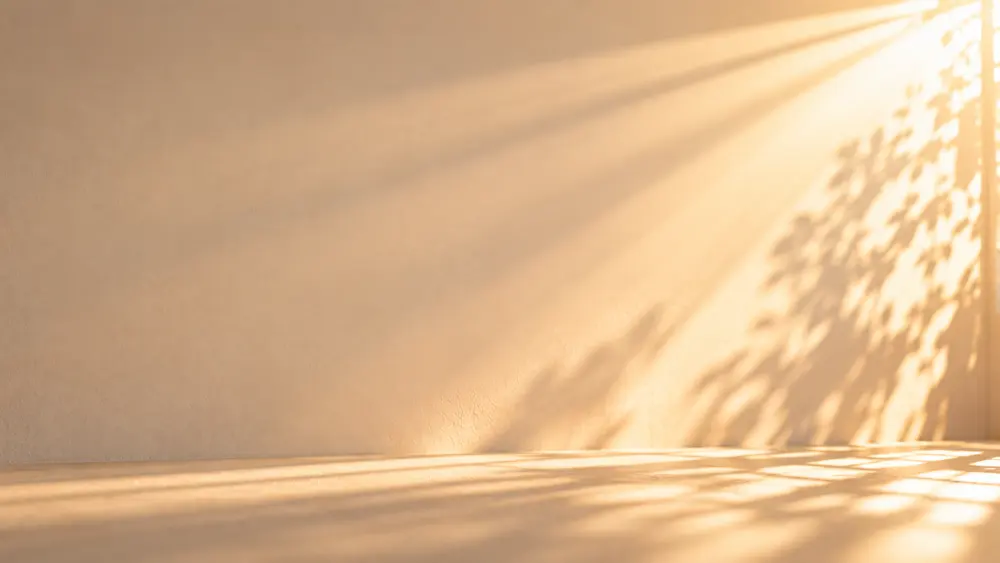
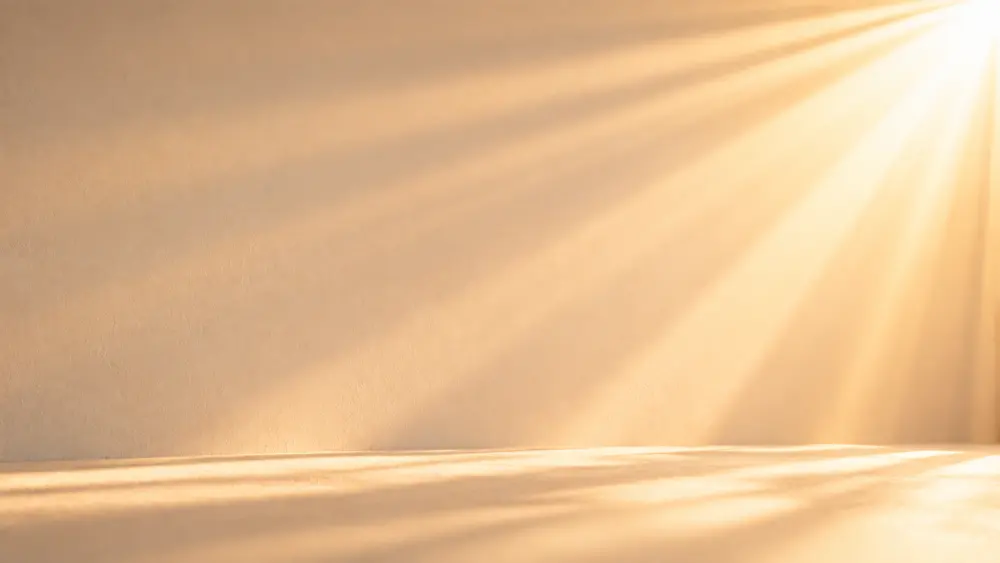
Aufmacher: exakt Fenster minus Kopfzeile, Ueberschrift in zwei Zeilen, finales Bild (KEV-29)
- Hoehe: Auf dem Desktop fuellt der Aufmacher genau das Fenster abzueglich
  Kopfzeile. Die Kopfzeile ist 82,5 px hoch, nicht 80, und waechst mit der
  Schriftvergroesserung der Darstellungs-Toolbar; kopfhoehe.js misst sie
  per ResizeObserver und legt sie in --kopfhoehe ab (ohne JS 4/5 rem).
  Gemessen bei 1280, 1366, 1440 und 1920 px: Kopf + Aufmacher = Fenster.
  Unter "xl" zusaetzlich abzueglich der Leiste unten.
- Ueberschrift: ab "lg" "Keiner soll mehr sagen muessen:" und das Zitat je
  in einer Zeile. Textspalte breiter (1.4fr/0.6fr), kein Umbruch, Schrift
  waechst zwischen 1024 und 1440 px mit der Breite bis 2,75 rem. Das Logo
  ist bei "lg" etwas kleiner, damit es in die schmalere Spalte passt.
- Bild: das vom Verein endgueltig gewaehlte (Lichtstrahlen von oben
  rechts), gleicher Dateiname startseite.webp.

diff --git a/resources/js/kopfhoehe.js b/resources/js/kopfhoehe.js
@@ -1,0 +1,23 @@
+/*
+ * Höhe der Kopfzeile als CSS-Variable --kopfhoehe (KEV-29).
+ *
+ * Der Aufmacher der Startseite soll genau das Fenster minus Kopfzeile füllen.
+ * Die Kopfzeile ist aber keine feste Zahl: Rahmen, Zeilenhöhe und vor allem
+ * die Schriftvergrößerung der Darstellungs-Toolbar ändern sie. Ein fester Wert
+ * liess die Seite um ein paar Pixel scrollen oder schnitt unten etwas ab.
+ *
+ * Ohne JavaScript gilt der Rückfallwert im CSS (4 bzw. 5 rem), das ist nahe
+ * genug. ResizeObserver meldet jede Änderung, auch beim Umschalten der Schrift.
+ */
+export function kopfhoeheVerdrahten() {
+    const kopf = document.querySelector('header.sticky')
+
+    if (!kopf || !('ResizeObserver' in window)) {
+        return
+    }
+
+    const setzen = () => document.documentElement.style.setProperty('--kopfhoehe', `${kopf.offsetHeight}px`)
+
+    setzen()
+    new ResizeObserver(setzen).observe(kopf)
+}

diff --git a/resources/js/app.js b/resources/js/app.js
@@ -23,6 +23,10 @@ import { kopierenVerdrahten } from './kopieren'
 import { speicherVerdrahten } from './speicher'
 import { spendenHinweisVerdrahten } from './spendenhinweis'
 import { triggerWarnungVerdrahten } from './trigger-warnung'
+import { kopfhoeheVerdrahten } from './kopfhoehe'
+
+// Zuerst: Der Aufmacher braucht die Höhe, bevor irgendetwas anderes zeichnet.
+kopfhoeheVerdrahten()
 
 toolbarVerdrahten()
 leselinieVerdrahten()

diff --git a/resources/views/components/blocks/hero.blade.php b/resources/views/components/blocks/hero.blade.php
@@ -47,10 +47,11 @@
 
 {{-- Unten derselbe Abstand wie bei jedem Abschnitt: Der nächste Baustein
      steht auf der Karte, und ohne Luft klebte die Karte an den Knöpfen. --}}
-{{-- Füllt den ersten Bildschirm (KEV-36): Höhe des Fensters abzüglich
-     Kopfzeile (4 rem, ab „lg“ 5 rem) und, unter „xl“, der festen Leiste unten
-     (4 rem). svh statt vh, damit mobile Browserleisten nichts abschneiden.
-     Nur Mindesthöhe: Längere Texte dürfen den Aufmacher wachsen lassen. --}}
+{{-- Füllt den ersten Bildschirm (KEV-36, KEV-29): Höhe des Fensters abzüglich
+     Kopfzeile und, unter „xl“, der festen Leiste unten (4 rem). Die Kopfzeile
+     misst kopfhoehe.js und legt sie in --kopfhoehe ab; ohne JavaScript gelten
+     4 bzw. 5 rem. svh statt vh, damit mobile Browserleisten nichts
+     abschneiden. Nur Mindesthöhe: Längere Texte dürfen ihn wachsen lassen. --}}
 @php
     // bild.webp (2000 px) und bild-1000.webp, wie bei den Titelbildern.
     $klein = $bild ? preg_replace('/\.webp$/', '-1000.webp', $bild) : null;
@@ -61,7 +62,7 @@
 
 {{-- Spalte statt Zeile: Inhalt mittig (my-auto), das Band „Sofort verlassen“
      am unteren Rand (KEV-30). --}}
-<section class="relative isolate flex min-h-[calc(100svh-8rem)] flex-col overflow-hidden px-4 md:px-8 pb-6 pt-8 lg:min-h-[calc(100svh-9rem)] lg:px-10 lg:pb-8 lg:pt-16 xl:min-h-[calc(100svh-5rem)]">
+<section class="relative isolate flex min-h-[calc(100svh-var(--kopfhoehe,4rem)-4rem)] flex-col overflow-hidden px-4 md:px-8 pb-6 pt-8 lg:min-h-[calc(100svh-var(--kopfhoehe,5rem)-4rem)] lg:px-10 lg:pb-8 lg:pt-12 xl:min-h-[calc(100svh-var(--kopfhoehe,5rem))]">
     {{-- Hintergrundbild (KEV-35): eine ruhige, leere Wand mit Fensterlicht,
          ohne Motiv, darauf links der Text und rechts das Logo. Bis zum
          28.09.2026 war es ein Steinstapel; der Verein will auf der Startseite
@@ -79,7 +80,10 @@
         </div>
     @endif
 
-    <div class="mx-auto my-auto grid w-full max-w-6xl items-center gap-6 md:grid-cols-[1.25fr_0.75fr] md:gap-8 lg:grid-cols-[1.15fr_0.85fr] lg:gap-10">
+    {{-- Ab „lg“ bekommt der Text mehr Breite als das Logo (KEV-29): Die
+         Überschrift soll dort in zwei Zeilen stehen, „Keiner soll mehr sagen
+         müssen:“ und das Zitat je für sich. --}}
+    <div class="mx-auto my-auto grid w-full max-w-6xl items-center gap-6 md:grid-cols-[1.25fr_0.75fr] md:gap-8 lg:grid-cols-[1.4fr_0.6fr] lg:gap-10">
 
         {{-- Auf schmalen Viewports steht die Grafik oben (order-first), wie im Mockup.
              Zweispaltig schon ab „md“ (KEV-26): Auf dem Tablet stand der Stapel
@@ -92,7 +96,10 @@
             {{-- pb-1: Die Unterlängen der Handschrift brauchen den Platz. --}}
             {{-- text-balance: Auf dem Handy blieb sonst „müssen:“ allein in
                  der zweiten Zeile stehen. --}}
-            <h1 class="text-balance pb-1 font-display text-[1.75rem] font-medium leading-[1.18] text-ink md:text-[2.125rem] lg:text-[2.75rem]">
+            {{-- Ab „lg“ ohne Umbruch: Jeder der beiden Teile steht in einer
+                 Zeile (KEV-29). Damit das auch bei 1024 px passt, wächst die
+                 Schrift dort mit der Breite, bis 2,75 rem. --}}
+            <h1 class="text-balance pb-1 font-display text-[1.75rem] font-medium leading-[1.18] text-ink md:text-[2.125rem] lg:whitespace-nowrap lg:text-[clamp(2.25rem,3.2vw,2.75rem)]">
                 {!! $ueberschrift !!}
             </h1>
 
@@ -122,7 +129,7 @@
                  Knöpfe im ersten Bildschirm bleiben. --}}
             <div class="hero-logo mx-auto flex w-full max-w-sm items-center justify-center">
                 <img src="/img/logo-gross.webp" alt="" width="479" height="432" fetchpriority="high"
-                     class="h-auto w-40 sm:w-56 lg:w-80">
+                     class="h-auto w-40 sm:w-56 lg:w-64 xl:w-80">
             </div>
 
             @if ($hand)

diff --git a/docs/Bildsprache.md b/docs/Bildsprache.md
@@ -64,7 +64,7 @@ ansehen, bei 1024, 1440 und 1920 px. Jedes Bild liegt zweimal vor:
 |---|---|
 | Verein | Vereinslogo auf der Wand über leerem Tisch (siehe unten) |
 | Über uns – Vorstand und Team | zwei Keramikschalen nebeneinander |
-| Startseite (Aufmacher) | leere Wand mit goldenen Lichtstrahlen und Blätterschatten, von Kevin geliefert, ohne Motiv; davor das Logo (KEV-35/36). Vorher leere Wand mit Fensterlicht (b73b111) bzw. kurz der Steinstapel |
+| Startseite (Aufmacher) | leere Wand mit goldenen Lichtstrahlen von oben rechts, ohne Motiv, vom Verein endgültig gewählt (KEV-29); davor das Logo. Vorher kurz Varianten mit Blätterschatten, Fensterlicht und Steinstapel |
 | Mitgliedschaft | Mitgliedsantrag mit Stift, von Taddi geliefert (KEV-61); Kleingedrucktes weich gezeichnet, oben ausgerichtet (siehe unten) |
 | Spenden | Keramikschale mit Samen, Gräser, Leinen |
 | Unterstützung | Keimling im Terrakottatopf |
